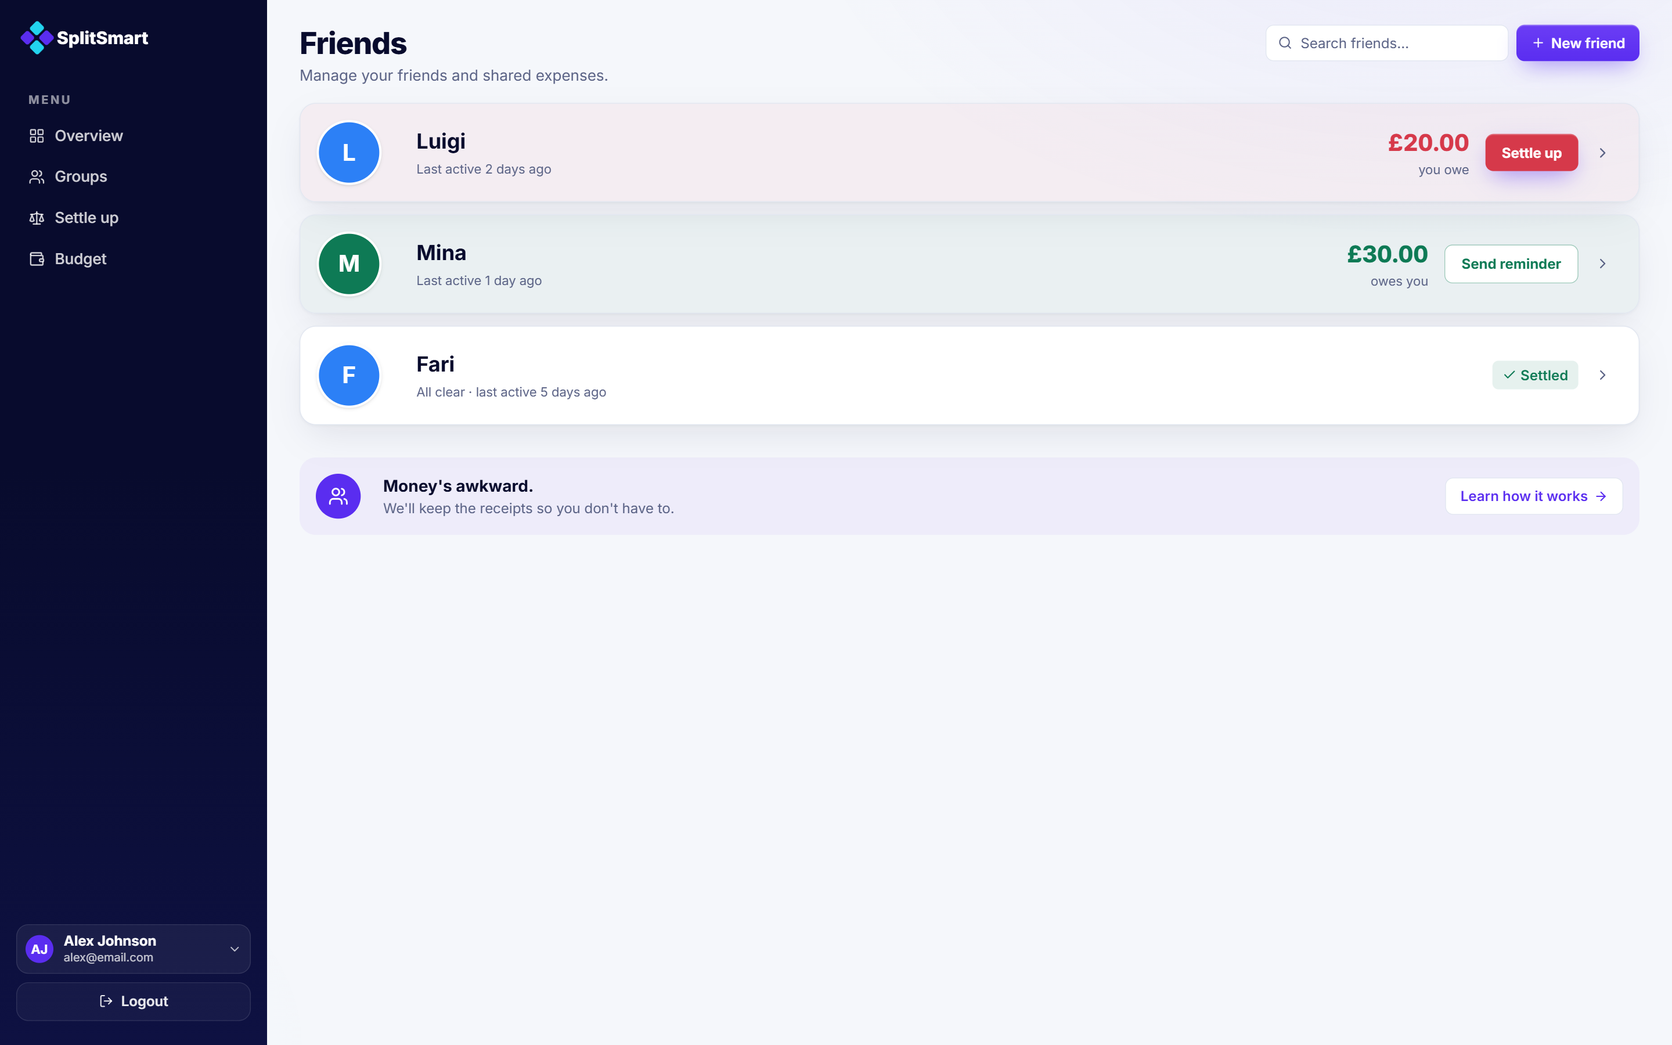
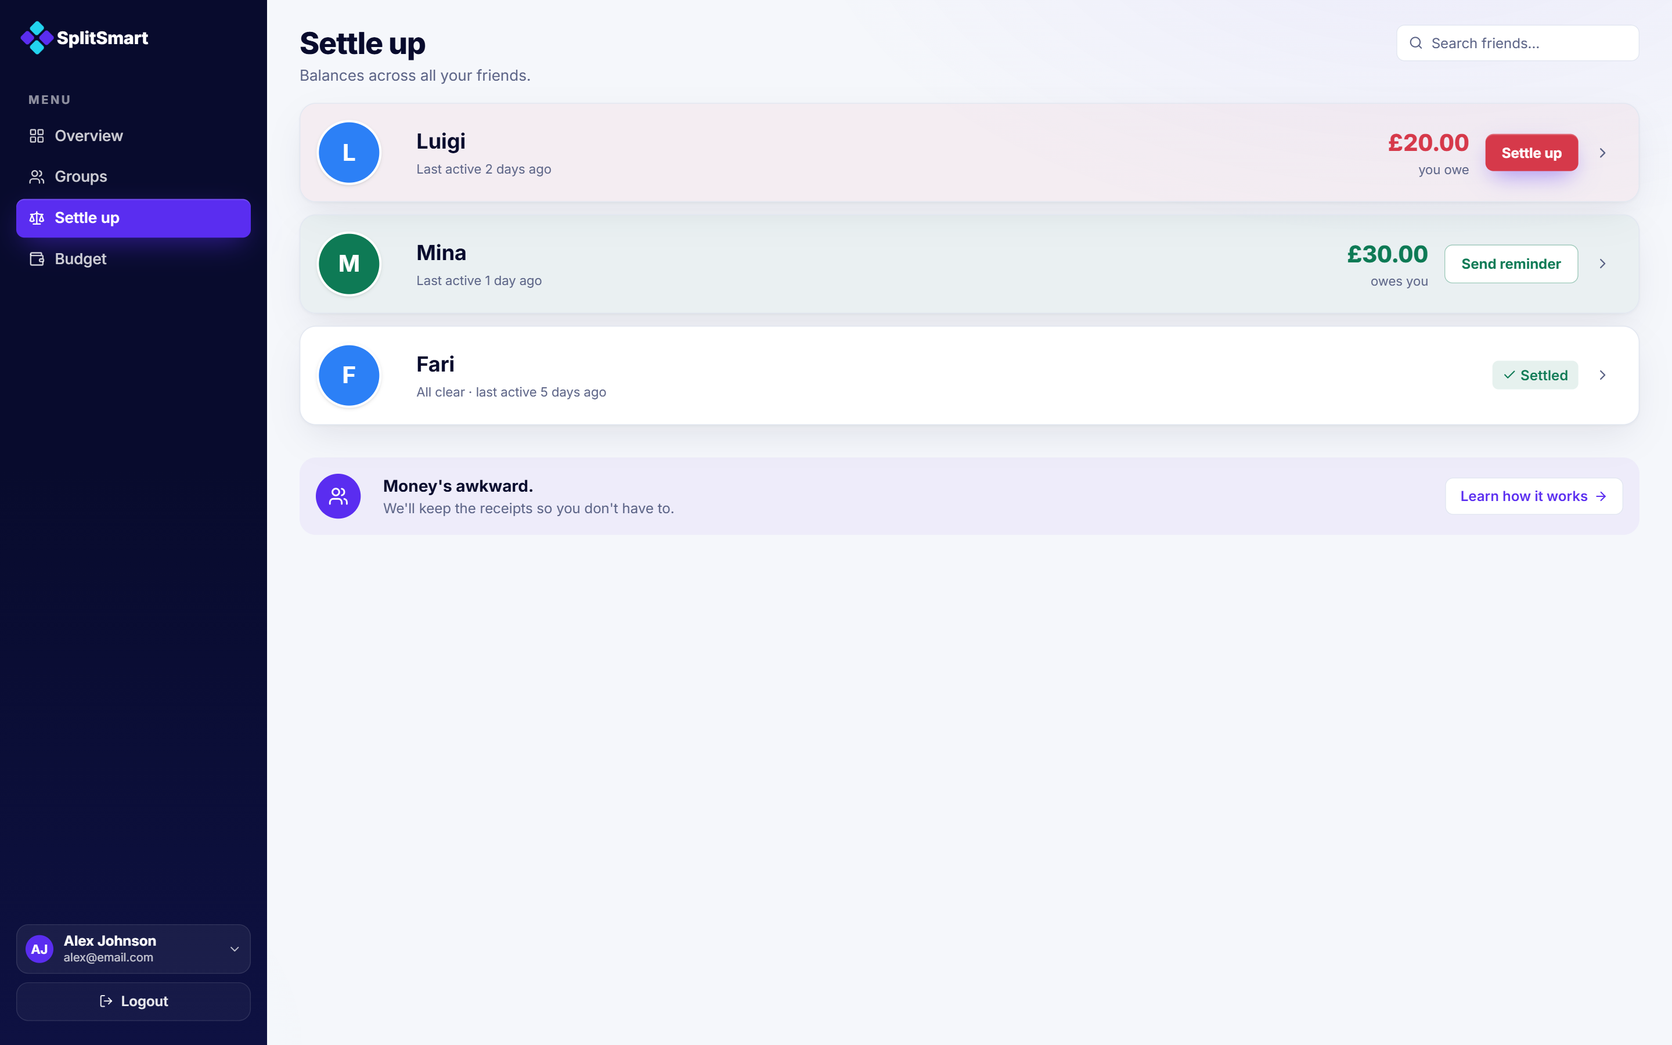
refactor(splitsmart-case-study): align Settle up copy, clearer conclusion, retitled Settle up screenshot
- Settle up design-decision figure now uses the per-person balances
  screen (app-friends.png) retitled "Settle up" with the section
  highlighted in the sidebar and the "New friend" action removed
- Rewrite the Settle Up redesign paragraph to lead from the finding
  (people expected to settle everyone at once) and the new caption
- Usability testing reframed around "settle everyone at once"; remove
  the budget quote; rename table header "Task" -> "Metric"
- Plainer Conclusion (drop "two mental models", fix "single view")

Changed region(s): [[0.7812, 0.0, 1.0, 0.0933], [0.0, 0.1867, 0.1562, 0.2489], [0.1875, 0.0311, 0.3438, 0.0933]]

diff --git a/splitsmart-case-study/website_page/index.html b/splitsmart-case-study/website_page/index.html
@@ -885,8 +885,8 @@
     <p>Balances are grouped by person across every group, not group by group, and ordered by what needs action. What you owe and what you're owed sit side by side with the fewest transfers to clear them; already-settled people drop to an <em>all clear</em> list at the bottom.</p>
 
     <figure class="a-figure">
-      <img src="../visuals/app-settle-up.png" alt="Settle up screen — net balance across all friends, with amounts you'll receive and amounts you owe consolidated by person across groups, the minimum number of transfers to clear them, and an all-clear list of settled people" style="width: 100%; height: auto; display: block; border-radius: 12px;">
-      <figcaption>The Settle up page — balances consolidated by person, ordered by what needs action.</figcaption>
+      <img src="../visuals/app-friends.png" alt="Per-person balances screen — each person carries one balance consolidated across all shared groups: what you owe or are owed, with settle up or send reminder inline, and settled people marked all clear" style="width: 100%; height: auto; display: block; border-radius: 12px;">
+      <figcaption>Balances consolidated by person — what you owe and what you're owed, with settle up or send reminder right from the row.</figcaption>
     </figure>
 
     <h3>Groups page — remaining, not spent</h3>
@@ -903,7 +903,7 @@
 
     <table class="a-table">
       <thead>
-        <tr><th>Task</th><th>Result</th></tr>
+        <tr><th>Metric</th><th>Result</th></tr>
       </thead>
       <tbody>
         <tr><td>Average time to identify balance</td><td>~4 seconds</td></tr>
@@ -911,29 +911,28 @@
         <tr><td>Task completion rate</td><td>100%</td></tr>
         <tr><td>Participants needing assistance</td><td>0 of 5</td></tr>
         <tr><td>Understood budget status immediately</td><td>4 of 5</td></tr>
-        <tr><td>Expected to settle across all groups at once</td><td>3 of 5</td></tr>
+        <tr><td>Expected to settle everyone at once</td><td>3 of 5</td></tr>
       </tbody>
     </table>
 
     <p>All five participants completed primary tasks with no major navigation issues. Balance, settlement, and budget status were understood quickly across the board.</p>
 
-    <p><strong>Key finding:</strong> Three participants expected to settle with a person across all groups at once, rather than group by group. This showed the settle flow conflicted with users' natural mental model — they think in terms of <em>who</em> they owe, not <em>which group</em> the debt belongs to. This finding directly drove the redesign of the Settle Up screen.</p>
+    <p><strong>Key finding:</strong> Three of five participants expected to clear everything in one pass — settling all the people they owed at once — rather than opening each balance and paying it one by one. They thought in terms of <em>who</em> they owe and wanted a single action to settle up, not a debt-at-a-time flow. This directly drove the redesign of the Settle up screen.</p>
 
     <p><strong>Open question:</strong> One participant expected the settle action directly on the balance card, one tap earlier than the current flow allows. This wasn't addressed in the redesign and remains a potential improvement.</p>
 
     <div class="a-quotes">
-      <p class="a-quote">"I expected to settle with one person across all groups at once."</p>
+      <p class="a-quote">"I expected to settle everyone at once, not one by one."</p>
       <p class="a-quote">"I can immediately tell what I actually spent."</p>
-      <p class="a-quote">"The budget makes shared expenses easier to understand."</p>
       <p class="a-quote">"Feels simpler than other expense-splitting apps."</p>
     </div>
 
     <div class="a-section-mark" id="va-redesign"><span class="num">07</span> Settle Up redesign</div>
-    <p>Based on the testing findings, I redesigned the Settle Up screen to reflect how users naturally expected the feature to behave. Rather than settling one group at a time, the redesigned flow shows the minimum number of transfers required to clear all outstanding debts across all groups — consolidating by person, not by group.</p>
+    <p>Based on the testing findings, I redesigned Settle up so people could settle everyone at once instead of working through debts one at a time. Pay all and Remind all now clear every balance across all groups in a single move, in the fewest transfers — and a single row still settles one person on its own.</p>
 
     <figure class="a-figure">
-      <div class="img img-warm" style="height: 380px;">Settle Up · redesigned · minimum transfers to clear all debts, consolidated by person</div>
-      <figcaption>The rebuilt Settle Up — consolidating by person, not by group.</figcaption>
+      <img src="../visuals/app-settle-up.png" alt="Redesigned Settle up screen — net balance with amounts to receive and amounts owed consolidated by person across groups, Remind all and Pay all to clear everything in the minimum number of transfers, and an all-clear list of settled people" style="width: 100%; height: auto; display: block; border-radius: 12px;">
+      <figcaption>The rebuilt Settle up — Pay all or Remind all clears every balance in the fewest transfers.</figcaption>
     </figure>
 
     <div class="a-section-mark" id="va-gaps"><span class="num">08</span> Gaps and tradeoffs</div>
@@ -952,7 +951,7 @@
 
     <div class="a-reflection" id="va-conclusion">
       <div class="a-reflection-mark">09 · Conclusion</div>
-      <p>SplitSmart is built on the idea that users don't want to hold two mental models at once — the group's ledger and their own budget. The app brings those together in a single view, so shared expenses land where they actually belong: in your personal financial picture.</p>
+      <p>SplitSmart is built on the idea that you shouldn't have to juggle the group's ledger and your own budget separately. The app ties them together, so shared expenses land where they actually belong: in your personal financial picture.</p>
       <div class="note">SplitSmart is a self-directed concept project. It has not shipped; the usability test was small, and the language here describes what the design argues, not what it has measured at scale.</div>
     </div>
 
@@ -1102,9 +1101,9 @@
         <figure class="b-figure">
           <div class="b-figure-frame">
             <div class="b-figure-chrome"><span></span><span></span><span></span></div>
-            <img src="../visuals/app-settle-up.png" alt="Settle up screen — net balance across all friends, with amounts you'll receive and amounts you owe consolidated by person across groups, the minimum number of transfers to clear them, and an all-clear list of settled people" style="width: 100%; height: auto; display: block; border-radius: 6px;">
+            <img src="../visuals/app-friends.png" alt="Per-person balances screen — each person carries one balance consolidated across all shared groups: what you owe or are owed, with settle up or send reminder inline, and settled people marked all clear" style="width: 100%; height: auto; display: block; border-radius: 6px;">
           </div>
-          <figcaption>The Settle up page — balances consolidated by person, ordered by what needs action.</figcaption>
+          <figcaption>Balances consolidated by person — what you owe and what you're owed, with settle up or send reminder right from the row.</figcaption>
         </figure>
 
         <h3>Groups page — remaining, not spent</h3>
@@ -1126,7 +1125,7 @@
 
         <table class="b-table">
           <thead>
-            <tr><th>Task</th><th>Result</th></tr>
+            <tr><th>Metric</th><th>Result</th></tr>
           </thead>
           <tbody>
             <tr><td>Average time to identify balance</td><td>~4 seconds</td></tr>
@@ -1134,35 +1133,34 @@
             <tr><td>Task completion rate</td><td>100%</td></tr>
             <tr><td>Participants needing assistance</td><td>0 of 5</td></tr>
             <tr><td>Understood budget status immediately</td><td>4 of 5</td></tr>
-            <tr><td>Expected to settle across all groups at once</td><td>3 of 5</td></tr>
+            <tr><td>Expected to settle everyone at once</td><td>3 of 5</td></tr>
           </tbody>
         </table>
 
         <p>All five participants completed primary tasks with no major navigation issues. Balance, settlement, and budget status were understood quickly across the board.</p>
 
-        <p><strong>Key finding:</strong> Three participants expected to settle with a person across all groups at once, rather than group by group. This showed the settle flow conflicted with users' natural mental model — they think in terms of <em>who</em> they owe, not <em>which group</em> the debt belongs to. This finding directly drove the redesign of the Settle Up screen.</p>
+        <p><strong>Key finding:</strong> Three of five participants expected to clear everything in one pass — settling all the people they owed at once — rather than opening each balance and paying it one by one. They thought in terms of <em>who</em> they owe and wanted a single action to settle up, not a debt-at-a-time flow. This directly drove the redesign of the Settle up screen.</p>
 
         <p><strong>Open question:</strong> One participant expected the settle action directly on the balance card, one tap earlier than the current flow allows. This wasn't addressed in the redesign and remains a potential improvement.</p>
 
         <h3>Selected reactions.</h3>
         <div class="b-quotes">
-          <p class="b-quote">"I expected to settle with one person across all groups at once."</p>
+          <p class="b-quote">"I expected to settle everyone at once, not one by one."</p>
           <p class="b-quote">"I can immediately tell what I actually spent."</p>
-          <p class="b-quote">"The budget makes shared expenses easier to understand."</p>
           <p class="b-quote">"Feels simpler than other expense-splitting apps."</p>
         </div>
       </section>
 
       <section>
         <div class="b-section-mark" id="vb-redesign"><span class="num">07</span><span class="label">Settle Up redesign</span></div>
-        <p>Based on the testing findings, I redesigned the Settle Up screen to reflect how users naturally expected the feature to behave. Rather than settling one group at a time, the redesigned flow shows the minimum number of transfers required to clear all outstanding debts across all groups — consolidating by person, not by group.</p>
+        <p>Based on the testing findings, I redesigned Settle up so people could settle everyone at once instead of working through debts one at a time. Pay all and Remind all now clear every balance across all groups in a single move, in the fewest transfers — and a single row still settles one person on its own.</p>
 
         <figure class="b-figure">
           <div class="b-figure-frame">
             <div class="b-figure-chrome"><span></span><span></span><span></span></div>
-            <div class="img img-violet-soft">Settle Up · redesigned · minimum transfers to clear all debts, consolidated by person</div>
+            <img src="../visuals/app-settle-up.png" alt="Redesigned Settle up screen — net balance with amounts to receive and amounts owed consolidated by person across groups, Remind all and Pay all to clear everything in the minimum number of transfers, and an all-clear list of settled people" style="width: 100%; height: auto; display: block; border-radius: 6px;">
           </div>
-          <figcaption>The rebuilt Settle Up — consolidating by person, not by group.</figcaption>
+          <figcaption>The rebuilt Settle up — Pay all or Remind all clears every balance in the fewest transfers.</figcaption>
         </figure>
       </section>
 
@@ -1185,7 +1183,7 @@
 
       <section class="b-reflection" id="vb-conclusion">
         <div class="b-reflection-mark">09 · Conclusion</div>
-        <p>SplitSmart is built on the idea that users don't want to hold two mental models at once — the group's ledger and their own budget. The app brings those together in a single view, so shared expenses land where they actually belong: in your personal financial picture.</p>
+        <p>SplitSmart is built on the idea that you shouldn't have to juggle the group's ledger and your own budget separately. The app ties them together, so shared expenses land where they actually belong: in your personal financial picture.</p>
         <div class="note">SplitSmart is a self-directed concept project. It has not shipped, the usability test was small, and the language here describes what the design argues, not what it has measured at scale.</div>
       </section>
 
@@ -1346,9 +1344,9 @@
         <figure class="c-figure">
           <div class="c-figure-frame">
             <div class="c-figure-chrome"><span></span><span></span><span></span></div>
-            <img src="../visuals/app-settle-up.png" alt="Settle up screen — net balance across all friends, with amounts you'll receive and amounts you owe consolidated by person across groups, the minimum number of transfers to clear them, and an all-clear list of settled people" style="width: 100%; height: auto; display: block; border-radius: 8px;">
+            <img src="../visuals/app-friends.png" alt="Per-person balances screen — each person carries one balance consolidated across all shared groups: what you owe or are owed, with settle up or send reminder inline, and settled people marked all clear" style="width: 100%; height: auto; display: block; border-radius: 8px;">
           </div>
-          <figcaption>The Settle up page — balances consolidated by person, ordered by what needs action.</figcaption>
+          <figcaption>Balances consolidated by person — what you owe and what you're owed, with settle up or send reminder right from the row.</figcaption>
         </figure>
 
         <h3>Groups page — remaining, not spent</h3>
@@ -1370,7 +1368,7 @@
 
         <table class="c-table">
           <thead>
-            <tr><th>Task</th><th>Result</th></tr>
+            <tr><th>Metric</th><th>Result</th></tr>
           </thead>
           <tbody>
             <tr><td>Average time to identify balance</td><td>~4 seconds</td></tr>
@@ -1378,39 +1376,38 @@
             <tr><td>Task completion rate</td><td>100%</td></tr>
             <tr><td>Participants needing assistance</td><td>0 of 5</td></tr>
             <tr><td>Understood budget status immediately</td><td>4 of 5</td></tr>
-            <tr><td>Expected to settle across all groups at once</td><td>3 of 5</td></tr>
+            <tr><td>Expected to settle everyone at once</td><td>3 of 5</td></tr>
           </tbody>
         </table>
 
         <p>All five participants completed primary tasks with no major navigation issues. Balance, settlement, and budget status were understood quickly across the board.</p>
 
-        <p><strong>Key finding:</strong> Three participants expected to settle with a person across all groups at once, rather than group by group. This showed the settle flow conflicted with users' natural mental model — they think in terms of <em>who</em> they owe, not <em>which group</em> the debt belongs to. This finding directly drove the redesign of the Settle Up screen.</p>
+        <p><strong>Key finding:</strong> Three of five participants expected to clear everything in one pass — settling all the people they owed at once — rather than opening each balance and paying it one by one. They thought in terms of <em>who</em> they owe and wanted a single action to settle up, not a debt-at-a-time flow. This directly drove the redesign of the Settle up screen.</p>
 
         <p><strong>Open question:</strong> One participant expected the settle action directly on the balance card, one tap earlier than the current flow allows. This wasn't addressed in the redesign and remains a potential improvement.</p>
 
         <h3>Selected reactions.</h3>
         <div class="c-quotes">
-          <p class="c-quote">"I expected to settle with one person across all groups at once."</p>
+          <p class="c-quote">"I expected to settle everyone at once, not one by one."</p>
           <p class="c-quote">"I can immediately tell what I actually spent."</p>
-          <p class="c-quote">"The budget makes shared expenses easier to understand."</p>
           <p class="c-quote">"Feels simpler than other expense-splitting apps."</p>
         </div>
       </section>
 
       <section>
         <div class="c-section-mark" id="vc-redesign"><span class="num">07</span><span class="label">Settle Up redesign</span></div>
-        <p>Based on the testing findings, I redesigned the Settle Up screen to reflect how users naturally expected the feature to behave. Rather than settling one group at a time, the redesigned flow shows the minimum number of transfers required to clear all outstanding debts across all groups — consolidating by person, not by group.</p>
+        <p>Based on the testing findings, I redesigned Settle up so people could settle everyone at once instead of working through debts one at a time. Pay all and Remind all now clear every balance across all groups in a single move, in the fewest transfers — and a single row still settles one person on its own.</p>
 
         <figure class="c-figure">
           <div class="c-figure-frame">
             <div class="c-figure-chrome"><span></span><span></span><span></span></div>
-            <div class="img img-violet" style="height: 360px;">Settle Up · redesigned · minimum transfers to clear all debts, consolidated by person</div>
+            <img src="../visuals/app-settle-up.png" alt="Redesigned Settle up screen — net balance with amounts to receive and amounts owed consolidated by person across groups, Remind all and Pay all to clear everything in the minimum number of transfers, and an all-clear list of settled people" style="width: 100%; height: auto; display: block; border-radius: 8px;">
           </div>
           <div class="c-callout" style="top: 40px; right: -40px;">
             <div class="c-callout-eyebrow">Consolidated by person</div>
             The minimum set of transfers across every group — the test's strongest finding, built.
           </div>
-          <figcaption>The rebuilt Settle Up — consolidating by person, not by group.</figcaption>
+          <figcaption>The rebuilt Settle up — Pay all or Remind all clears every balance in the fewest transfers.</figcaption>
         </figure>
       </section>
 
@@ -1435,7 +1432,7 @@
 
       <section class="c-reflection" id="vc-conclusion">
         <div class="c-reflection-mark">09 · Conclusion</div>
-        <p>SplitSmart is built on the idea that users don't want to hold two mental models at once — the group's ledger and their own budget. The app brings those together in a single view, so shared expenses land where they actually belong: in your personal financial picture.</p>
+        <p>SplitSmart is built on the idea that you shouldn't have to juggle the group's ledger and your own budget separately. The app ties them together, so shared expenses land where they actually belong: in your personal financial picture.</p>
         <div class="note">SplitSmart is a self-directed concept project. It has not shipped, the usability test was small, and the language here describes what the design argues, not what it has measured at scale.</div>
       </section>
 

diff --git a/splitsmart-case-study/case-study.md b/splitsmart-case-study/case-study.md
@@ -76,31 +76,30 @@ The decision was to surface how much budget each group has remaining, not just h
 
 *5 participants · 10 minutes each · unmoderated*
 
-| Task | Result |
+| Metric | Result |
 |---|---|
 | Average time to identify balance | ~4 seconds |
 | Average taps to settle a balance | 1–2 taps |
 | Task completion rate | 100% |
 | Participants needing assistance | 0 of 5 |
 | Understood budget status immediately | 4 of 5 |
-| Expected to settle across all groups at once | 3 of 5 |
+| Expected to settle everyone at once | 3 of 5 |
 
 All five participants completed primary tasks with no major navigation issues. Balance, settlement, and budget status were understood quickly across the board.
 
-**Key finding:** Three participants expected to settle with a person across all groups at once, rather than group by group. This showed the settle flow conflicted with users' natural mental model — they think in terms of *who* they owe, not *which group* the debt belongs to. This finding directly drove the redesign of the Settle Up screen.
+**Key finding:** Three of five participants expected to clear everything in one pass — settling all the people they owed at once — rather than opening each balance and paying it one by one. They thought in terms of *who* they owe and wanted a single action to settle up, not a debt-at-a-time flow. This directly drove the redesign of the Settle up screen.
 
 **Open question:** One participant expected the settle action directly on the balance card, one tap earlier than the current flow allows. This wasn't addressed in the redesign and remains a potential improvement.
 
-> "I expected to settle with one person across all groups at once."
+> "I expected to settle everyone at once, not one by one."
 > "I can immediately tell what I actually spent."
-> "The budget makes shared expenses easier to understand."
 > "Feels simpler than other expense-splitting apps."
 
 ---
 
 ## REDESIGN: SETTLE UP FLOW
 
-Based on the testing findings, I redesigned the Settle Up screen to reflect how users naturally expected the feature to behave. Rather than settling one group at a time, the redesigned flow shows the minimum number of transfers required to clear all outstanding debts across all groups — consolidating by person, not by group.
+Based on the testing findings, I redesigned Settle up so people could settle everyone at once instead of working through debts one at a time. Pay all and Remind all now clear every balance across all groups in a single move, in the fewest transfers — and a single row still settles one person on its own.
 
 ---
 
@@ -118,4 +117,4 @@ The app assumes a single currency throughout. For international group trips — 
 
 ## CONCLUSION
 
-SplitSmart is built on the idea that users don't want to hold two mental models at once — the group's ledger and their own budget. The app brings those together in a single view, so shared expenses land where they actually belong: in your personal financial picture.
+SplitSmart is built on the idea that you shouldn't have to juggle the group's ledger and your own budget separately. The app ties them together, so shared expenses land where they actually belong: in your personal financial picture.
